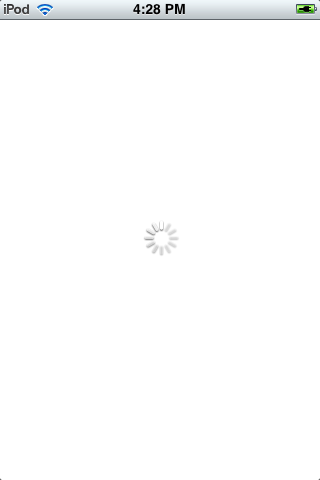
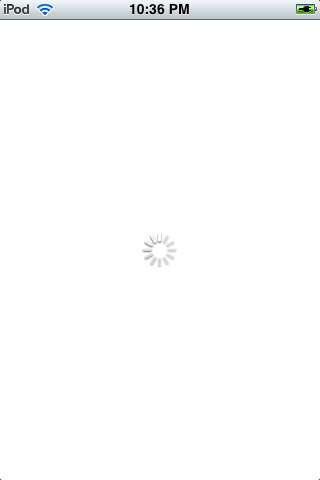
More Animation.

Changed region(s): [[0.4375, 0.4688, 0.5625, 0.5625], [0.4062, 0.0, 0.5938, 0.0312]]

diff --git a/ClassBrowser/Classes/ClassBrowserAppDelegate.m b/ClassBrowser/Classes/ClassBrowserAppDelegate.m
@@ -11,6 +11,7 @@
 @implementation ClassBrowserAppDelegate
 
 @synthesize window;
+@synthesize splashView;
 @synthesize activityIndicatorView;
 @synthesize navigationController;
 @synthesize rootViewController;
@@ -20,20 +21,42 @@
 	[rootViewController release];
 	[navigationController release];
 	[activityIndicatorView release];
+	[splashView release];
 	[window release];
 	[super dealloc];
 }
 
 
-- (void)pushTree:(NSArray*)tree {
-	[navigationController popToRootViewControllerAnimated:NO];
-	for (NSString *className in tree) {
-		ClassBrowserViewController *viewController = [[ClassBrowserViewController alloc] initWithNibName:@"ClassBrowserViewController" bundle:nil];
-		viewController.title = className;
-		[navigationController pushViewController:viewController animated:NO];
-		[viewController release];
+#define kANIMATION_DELAY_SECOND 1
+
+
+- (void)splashAnimation {
+	[[ClassTree sharedClassTree] setupClassDictionary];
+	[UIView beginAnimations:nil context:NULL];
+	[UIView setAnimationDuration:kANIMATION_DELAY_SECOND];
+	[UIView setAnimationTransition:UIViewAnimationTransitionCurlUp forView:window cache:NO];
+	[activityIndicatorView stopAnimating];
+	[splashView removeFromSuperview];
+	rootViewController.title = KEY_ROOT_CLASSES;
+	[window addSubview:[navigationController view]];
+	[UIView commitAnimations];
+}
+
+
+- (void)pushClass:(NSString*)className {
+	ClassBrowserViewController *viewController = [[ClassBrowserViewController alloc] initWithNibName:@"ClassBrowserViewController" bundle:nil];
+	viewController.title = className;
+	[navigationController pushViewController:viewController animated:YES];
+	[viewController release];
+}
+
+
+- (void)pushClassTree:(NSArray*)classTree {
+	[navigationController popToRootViewControllerAnimated:YES];
+	int i = 1;
+	for (NSString *className in classTree) {
+		[self performSelector:@selector(pushClass:) withObject:className afterDelay:0.9*i++];
 	}
-	[tree release];
 }
 
 
@@ -41,11 +64,8 @@
 
 
 - (void)applicationDidFinishLaunching:(UIApplication *)application {    
-	[[ClassTree sharedClassTree] setupClassDictionary];
-	[activityIndicatorView stopAnimating];
-	rootViewController.title = KEY_ROOT_CLASSES;
-	[window addSubview:[navigationController view]];
 	[window makeKeyAndVisible];
+	[self performSelector:@selector(splashAnimation) withObject:nil afterDelay:0.1];
 }
 
 

diff --git a/ClassBrowser/Classes/ClassSearchViewController.m b/ClassBrowser/Classes/ClassSearchViewController.m
@@ -7,7 +7,6 @@
 #import <objc/runtime.h>
 #import "ClassBrowserAppDelegate.h"
 #import "ClassSearchViewController.h"
-#import "ClassBrowserViewController.h"
 #import "ClassDataSource.h"
 #import "ClassTree.h"
 
@@ -61,10 +60,8 @@
 
 - (void)tableView:(UITableView *)tableView didSelectRowAtIndexPath:(NSIndexPath *)indexPath {
 	if (segmentedControl.selectedSegmentIndex == 0) {
-		ClassBrowserViewController *viewController = [[ClassBrowserViewController alloc] initWithNibName:@"ClassBrowserViewController" bundle:nil];
-		viewController.title = [(ClassDataSource*)self.tableView.dataSource objectForRowAtIndexPath:indexPath];
-		[[self navigationController] pushViewController:viewController animated:YES];
-		[viewController release];
+		ClassBrowserAppDelegate *appDelegate = (ClassBrowserAppDelegate *)[[UIApplication sharedApplication] delegate];
+		[appDelegate pushClass:[(ClassDataSource*)self.tableView.dataSource objectForRowAtIndexPath:indexPath]];
 	} else if (segmentedControl.selectedSegmentIndex == 1) {
 		NSString *className = [(ClassDataSource*)self.tableView.dataSource objectForRowAtIndexPath:indexPath];
 		NSMutableArray *tree = [[NSMutableArray alloc] initWithObjects:className,nil];
@@ -74,7 +71,8 @@
 			superClassName = [NSString stringWithCString:class_getName(class_getSuperclass(objc_getClass([superClassName cStringUsingEncoding:NSNEXTSTEPStringEncoding]))) encoding:NSNEXTSTEPStringEncoding];
 		}
 		ClassBrowserAppDelegate *appDelegate = (ClassBrowserAppDelegate *)[[UIApplication sharedApplication] delegate];
-		[appDelegate performSelector:@selector(pushTree:) withObject:tree afterDelay:1];
+		[appDelegate performSelector:@selector(pushClassTree:) withObject:tree afterDelay:0.1];
+		[tree release];
 	}
 }
 

diff --git a/ClassBrowser/Classes/ClassBrowserViewController.m b/ClassBrowser/Classes/ClassBrowserViewController.m
@@ -4,6 +4,7 @@
 //
 
 #import <objc/runtime.h>
+#import "ClassBrowserAppDelegate.h"
 #import "ClassBrowserViewController.h"
 #import "ClassSearchViewController.h"
 #import "ClassTree.h"
@@ -181,10 +182,8 @@
 
 - (void)tableView:(UITableView *)tableView didSelectRowAtIndexPath:(NSIndexPath *)indexPath {
 	if ([[(ClassDataSource*)self.tableView.dataSource name] isEqual:KEY_SUBCLASSES]) {
-		ClassBrowserViewController *viewController = [[ClassBrowserViewController alloc] initWithNibName:@"ClassBrowserViewController" bundle:nil];
-		viewController.title = [(ClassDataSource*)self.tableView.dataSource objectForRowAtIndexPath:indexPath];
-		[[self navigationController] pushViewController:viewController animated:YES];
-		[viewController release];
+		ClassBrowserAppDelegate *appDelegate = (ClassBrowserAppDelegate *)[[UIApplication sharedApplication] delegate];
+		[appDelegate pushClass:[(ClassDataSource*)self.tableView.dataSource objectForRowAtIndexPath:indexPath]];
 	}
 }
 

diff --git a/ClassBrowser/Classes/ClassBrowserAppDelegate.h b/ClassBrowser/Classes/ClassBrowserAppDelegate.h
@@ -9,16 +9,19 @@
 
 @interface ClassBrowserAppDelegate : NSObject <UIApplicationDelegate> {
     UIWindow *window;
+	UIView *splashView;
 	UIActivityIndicatorView *activityIndicatorView;
     UINavigationController *navigationController;
 	ClassBrowserViewController *rootViewController;
 }
 
 @property (nonatomic, retain) IBOutlet UIWindow *window;
+@property (nonatomic, retain) IBOutlet UIView *splashView;
 @property (nonatomic, retain) IBOutlet UIActivityIndicatorView *activityIndicatorView;
 @property (nonatomic, retain) IBOutlet UINavigationController *navigationController;
 @property (nonatomic, retain) IBOutlet ClassBrowserViewController *rootViewController;
 
-- (void)pushTree:(NSArray*)tree;
+- (void)pushClass:(NSString*)className;
+- (void)pushClassTree:(NSArray*)classTree;
 
 @end
